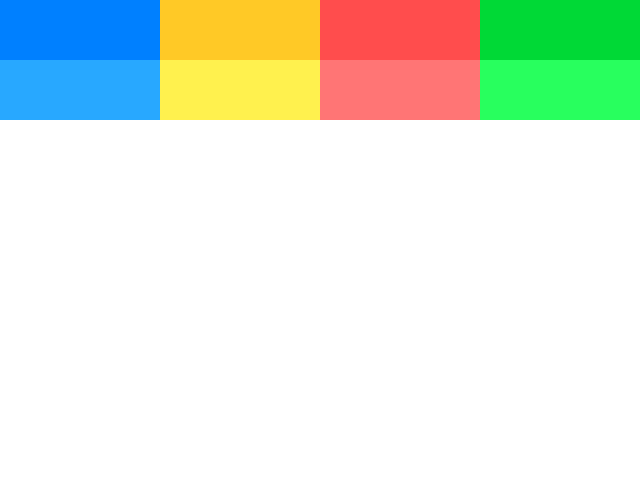
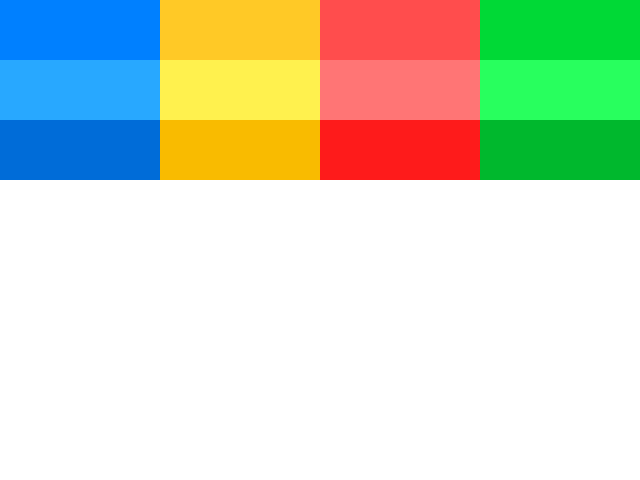
カレントチェック機能作成

Changed region(s): [[0.0, 0.25, 1.0, 0.375]]

diff --git a/index.html b/index.html
@@ -12,65 +12,66 @@
 <body>
 <h1>小ネタ部屋</h1>
 <p>
-	リハビリ件GitHubの練習用
+    リハビリ件GitHubの練習用
 </p>
 
 <h2><a href="js/ro.js">ロールオーバースクリプト</a></h2>
 <p>
-	画像にclass="hover"を指定している場合、マウスオーバーすると"_h"を加えた画像に差し替える。<br>
-	"hover"と"_h"は任意に変更可能。
+    画像にclass="hover"を指定している場合、マウスオーバーすると"_h"を加えた画像に差し替える。<br>
+    "hover"と"_h"は任意に変更可能。
 </p>
 
 <h3>ポイント</h3>
 <ul>
-	<li>要jQuery（新し目がいいかも）</li>
-	<li>ちゃんと画像先読み</li>
-	<li>某Hさんが作ったものよりコードが長い（汗）</li>
+    <li>要jQuery（新し目がいいかも）</li>
+    <li>ちゃんと画像先読み</li>
+    <li>某Hさんが作ったものよりコードが長い（汗）</li>
 </ul>
 
 <p>img.hoverの場合</p>
 <div class="block01">
-	<ul>
-		<li><img src="img/blue.png" width="160" height="60" alt="" class="hover" /></li>
-		<li><img src="img/green.png" width="160" height="60" alt="" class="hover" /></li>
-		<li><img src="img/red.png" width="160" height="60" alt="" class="hover" /></li>
-		<li><img src="img/yellow.png" width="160" height="60" alt="" class="hover" /></li>
-	</ul>
+    <ul>
+        <li><img src="img/blue.png" width="160" height="60" alt="" class="hover" /></li>
+        <li><img src="img/green.png" width="160" height="60" alt="" class="hover" /></li>
+        <li><img src="img/red.png" width="160" height="60" alt="" class="hover" /></li>
+        <li><img src="img/yellow.png" width="160" height="60" alt="" class="hover" /></li>
+    </ul>
 </div>
 
 <p>ul.hover > li > imgの場合</p>
-<div class="block01">
-	<ul class="hover">
-		<li><img src="img/blue.png" width="160" height="60" alt="" /></li>
-		<li><img src="img/green.png" width="160" height="60" alt="" /></li>
-		<li><img src="img/red.png" width="160" height="60" alt="" /></li>
-		<li><img src="img/yellow.png" width="160" height="60" alt="" /></li>
-	</ul>
+<div class="block01 cr">
+    <ul class="hover">
+        <li><a href="http://google.com"><img src="img/blue.png" width="160" height="60" alt="" /></a></li>
+        <li><a href="http://msn.co.jp"><img src="img/green.png" width="160" height="60" alt="" /></a></li>
+        <li><a href="http://www.ebay.com/"><img src="img/red.png" width="160" height="60" alt="" /></a></li>
+        <li><a href="./index.html"><img src="img/yellow.png" width="160" height="60" alt="" /></a></li>
+    </ul>
 </div>
 
 <h2><a href="js/ab.js">オートブランク</a></h2>
 <p>
-	自サイト以外のドメインに対して自動でtarget="_blank"を付ける。<br>
-	特定URLに特定のtargetも設定可能。
+    自サイト以外のドメインに対して自動でtarget="_blank"を付ける。<br>
+    特定URLに特定のtargetも設定可能。
 </p>
 
 <h3>ポイント</h3>
 <ul>
-	<li>要jQuery（新し目がいいかも）</li>
-	<li>サイトごとに開くウィンドウを調整可能</li>
-	<li>_selfを使えばホワイトリストにもできる。</li>
+    <li>要jQuery（新し目がいいかも）</li>
+    <li>サイトごとに開くウィンドウを調整可能</li>
+    <li>_selfを使えばホワイトリストにもできる。</li>
 </ul>
 
-<div class="block02">
-	<ul>
-		<li><a href="http://google.com">http://google.com</a></li>
-		<li><a href="http://msn.co.jp">http://msn.co.jp</a></li>
-		<li><a href="http://yahoo.co.jp">http://yahoo.co.jp</a></li>
-		<li><a href="http://www.ebay.com/" target="test">http://www.ebay.com</a></li>
-		<li><a href="index.html" target="test">このページ</a></li>
-		<li><a href="index.html">このページ</a></li>
-		<!-- li><a href="http://test.niimi.com/index.html">このページ</a></li -->
-	</ul>
+<div class="block02 cr">
+    <ul>
+        <li><a href="http://google.com">http://google.com</a></li>
+        <li><a href="http://msn.co.jp">http://msn.co.jp</a></li>
+        <li><a href="http://yahoo.co.jp">http://yahoo.co.jp</a></li>
+        <li><a href="http://www.ebay.com/" target="test">http://www.ebay.com</a></li>
+        <li><a href="index.html" target="test">このページ</a></li>
+        <li><a href="index.html">このページ</a></li>
+        <li><a href="thttp://127.0.0.1:55312/index.html">このページ</a></li>
+        <!-- li><a href="http://test.niimi.com/index.html">このページ</a></li -->
+    </ul>
 </div>
 
 </body>

diff --git a/js/ro.js b/js/ro.js
@@ -1,36 +1,60 @@
-// RollOver Script
-// 自由設定
-var key_class = 'hover'; // Class名
-var add_rollover = '_h'; // ファイル名に追加される文字 test.jpg → test_h.jpg
-
-// core
-function rolloverJs(){
-	var imgDom = $('img.'+key_class+',.'+key_class+' img');
-	imgDom.unbind("mouseenter").unbind("mouseleave"); // 重複処理を避けるためunbindを行う
-	// 先読み
-	for (i=0; i < imgDom.length ;i++){
-		var imgObj = new Image();
-		imagePath = imgDom.eq(i).attr('src');
-		imgDom.eq(i).data('mouse_off',imagePath);
-		imagePath_sp = imagePath.split('.'); 
-		imagePath_sp[imagePath_sp.length - 2] = imagePath_sp[imagePath_sp.length - 2] + add_rollover;
-		imagePath = imagePath_sp.join('.');
-		imgDom.eq(i).data('mouse_on',imagePath);
-		imgObj.src = imagePath;
-	};
-	// マウス オンオフ
-	imgDom.hover(function(){
-		$(this).attr('src',$(this).data('mouse_on'));
-	},function(){
-		$(this).attr('src',$(this).data('mouse_off'));
-	});
-};
-
 (function($){
-	$(document).ready(function(){
-		
-		rolloverJs();
+    $(document).ready(function(){
 
-	});
+        // ### RollOver Script ###
+        var key_class = 'hover'; // Class名
+        var add_rollover = '_h'; // ファイル名に追加される文字 test.jpg → test_h.jpg
+
+        // ### Current Check Script ###
+        var current_class = 'cr'; // Class名
+        var add_class = 'current' // カレントリンクを含む場合につけるクラス名
+        var add_current = '_cr'; // ファイル名に追加される文字 test.jpg → test_h.jpg
+
+        // ### CORE ###
+        // Rollover
+        var imgDom = $('img.'+key_class+',.'+key_class+' img');
+        imgDom.unbind("mouseenter").unbind("mouseleave"); // 重複処理を避けるためunbindを行う
+        // 先読み
+        for (i=0; i < imgDom.length ;i++){
+            var imgObj = new Image();
+            imagePath = imgDom.eq(i).attr('src');
+            imgDom.eq(i).data('mouse_off',imagePath);
+            imagePath_sp = imagePath.split('.');
+            imagePath_sp[imagePath_sp.length - 2] = imagePath_sp[imagePath_sp.length - 2] + add_rollover;
+            imagePath = imagePath_sp.join('.');
+            imgDom.eq(i).data('mouse_on',imagePath);
+            imgObj.src = imagePath;
+        };
+        // マウス オンオフ
+        imgDom.hover(function(){
+            $(this).attr('src',$(this).data('mouse_on'));
+        },function(){
+            $(this).attr('src',$(this).data('mouse_off'));
+        });
+
+        // Current Link
+        $('.'+current_class+' a,a.'+current_class).each(
+            function(){
+
+                $match = new RegExp('^'+location.href)
+                if ( $(this).prop('href').match($match) ){
+                    $(this).addClass(add_class);
+                };
+            }
+        );
+        $('.'+add_class+' img').unbind("mouseenter").unbind("mouseleave"); // Hoverバインド除去
+        $('.'+add_class+' img').each(
+            function(){
+                imagePath = $(this).attr('src');
+                imagePath_sp = imagePath.split('.');
+                imagePath_sp[imagePath_sp.length - 2] = imagePath_sp[imagePath_sp.length - 2] + add_current;
+                imagePath = imagePath_sp.join('.');
+
+                console.log(imagePath)
+                $(this).attr('src',imagePath);
+            }
+        );
+
+    });
 })(jQuery);
 

diff --git a/js/ab.js b/js/ab.js
@@ -2,32 +2,32 @@
 // UTF-8
 
 (function($){
-	$(document).ready(function(){
-		
-		// Auto Blank
-		
-		// URL LIST
-		var url_list = [
-			["http://google.com","ggl"],
-			["http://msn.co.jp","msn"],
-			["http://yahoo.co.jp","_self"]
-		];
-		
-		var baseHost = location.protocol + '//' + location.hostname;
-		var matchHost = new RegExp("^" + baseHost.replace(/\//g,'\\/'));
-		$('a').each(function(){
-			if ( !$(this).attr('target') && $(this).prop('href').match(matchHost)==null ){
-				$(this).attr('target','_blank');
-				for(i=0; i<url_list.length ;i++){
-					var matchHost2 = new RegExp("^" + url_list[i][0].replace(/\//g,'\\/'));
-					if ( $(this).attr('href').match(matchHost2) ){
-						$(this).attr('target',url_list[i][1]);
-					};
-				};
-			};
-		});
-		
-	});
+    $(document).ready(function(){
+
+        // Auto Blank
+
+        // URL LIST
+        var url_list = [
+            ["http://google.com","ggl"],
+            ["http://msn.co.jp","msn"],
+            ["http://yahoo.co.jp","_self"]
+        ];
+
+        var baseHost = location.protocol + '//' + location.hostname;
+        var matchHost = new RegExp("^" + baseHost.replace(/\//g,'\\/'));
+        $('a').each(function(){
+            if ( !$(this).attr('target') && $(this).prop('href').match(matchHost)==null ){
+                $(this).attr('target','_blank');
+                for(i=0; i<url_list.length ;i++){
+                    var matchHost2 = new RegExp("^" + url_list[i][0].replace(/\//g,'\\/'));
+                    if ( $(this).attr('href').match(matchHost2) ){
+                        $(this).attr('target',url_list[i][1]);
+                    };
+                };
+            };
+        });
+
+    });
 })(jQuery);
 
 
